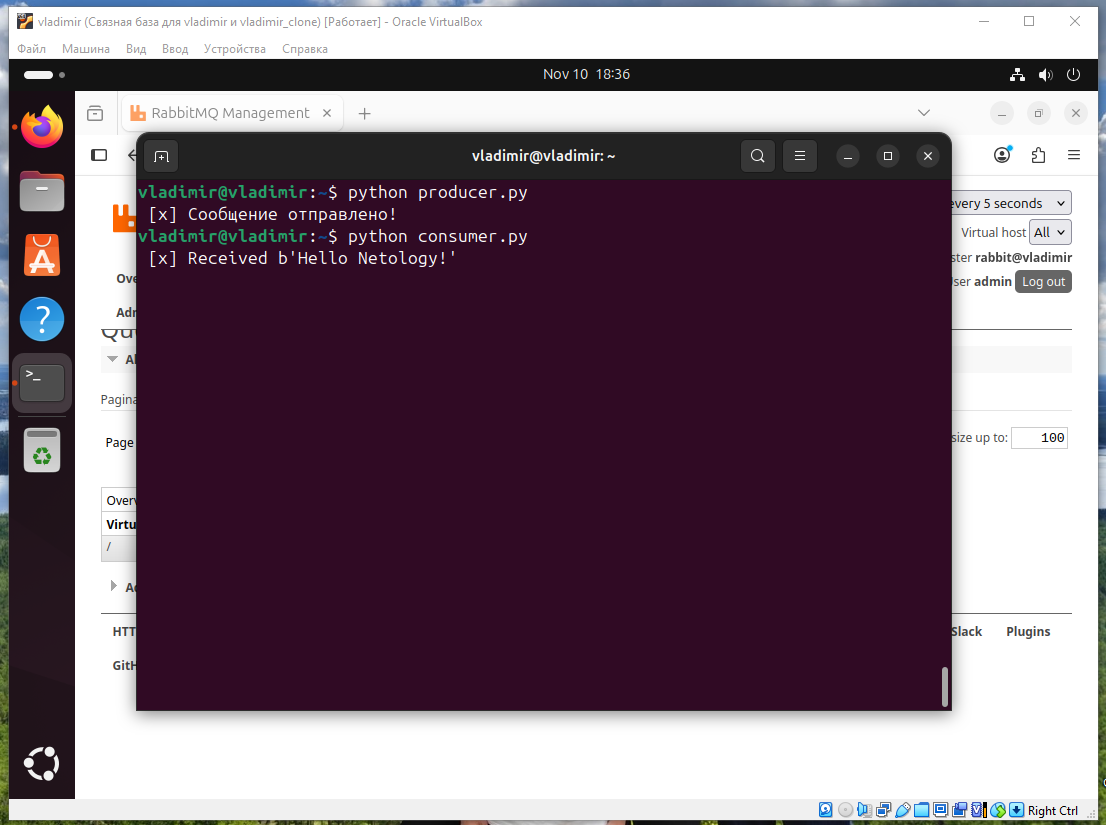
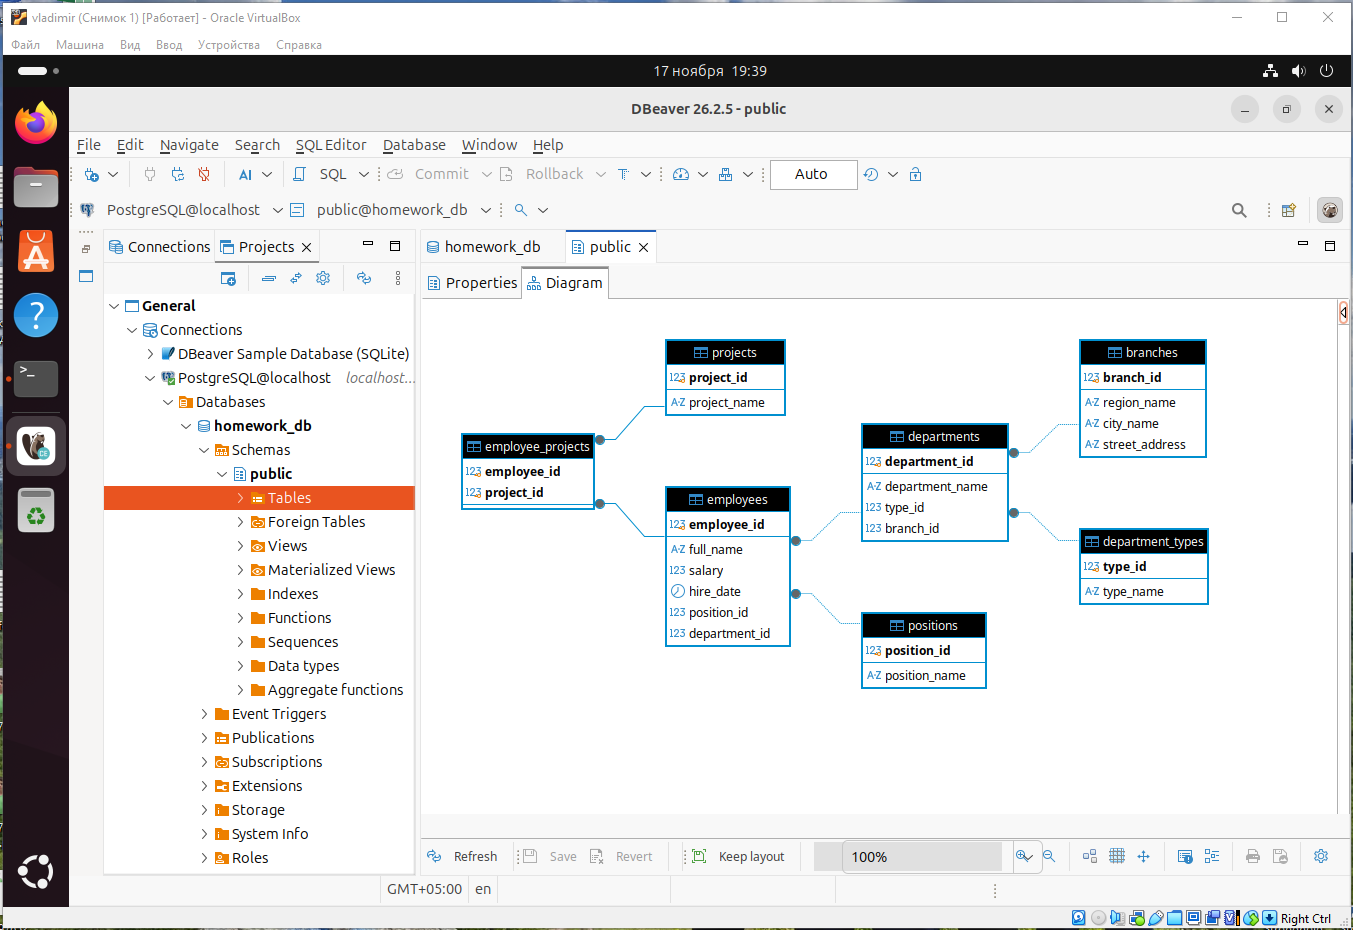
1

diff --git a/README.md b/README.md
@@ -1,4 +1,4 @@
-# Домашнее задание к занятию "`Название занятия`" - `Фамилия и имя студента`
+# Домашнее задание к занятию "`Базы данных`" - `Tsitovich Vladimir`
 
 
 ### Инструкция по выполнению домашнего задания
@@ -24,94 +24,17 @@
 
 ### Задание 1
 
-`Приведите ответ в свободной форме........`
-
-1. `Заполните здесь этапы выполнения, если требуется ....`
-2. `Заполните здесь этапы выполнения, если требуется ....`
-3. `Заполните здесь этапы выполнения, если требуется ....`
-4. `Заполните здесь этапы выполнения, если требуется ....`
-5. `Заполните здесь этапы выполнения, если требуется ....`
-6. 
-
-```
-Поле для вставки кода...
-....
-....
-....
-....
-```
-
-`При необходимости прикрепитe сюда скриншоты
-![Название скриншота 1](ссылка на скриншот 1)`
+![Название скриншота 1](ссылка на скриншот 1)
 
 
 ---
 
 ### Задание 2
 
-`Приведите ответ в свободной форме........`
+![Название скриншота 2](ссылка на скриншот 2)
 
-1. `Заполните здесь этапы выполнения, если требуется ....`
-2. `Заполните здесь этапы выполнения, если требуется ....`
-3. `Заполните здесь этапы выполнения, если требуется ....`
-4. `Заполните здесь этапы выполнения, если требуется ....`
-5. `Заполните здесь этапы выполнения, если требуется ....`
-6. 
-
-```
-Поле для вставки кода...
-....
-....
-....
-....
-```
-
-`При необходимости прикрепитe сюда скриншоты
-![Название скриншота 2](ссылка на скриншот 2)`
+![Название скриншота 1](ссылка на скриншот 1)
 
 
 ---
 
-### Задание 3
-
-`Приведите ответ в свободной форме........`
-
-1. `Заполните здесь этапы выполнения, если требуется ....`
-2. `Заполните здесь этапы выполнения, если требуется ....`
-3. `Заполните здесь этапы выполнения, если требуется ....`
-4. `Заполните здесь этапы выполнения, если требуется ....`
-5. `Заполните здесь этапы выполнения, если требуется ....`
-6. 
-
-```
-Поле для вставки кода...
-....
-....
-....
-....
-```
-
-`При необходимости прикрепитe сюда скриншоты
-![Название скриншота](ссылка на скриншот)`
-
-### Задание 4
-
-`Приведите ответ в свободной форме........`
-
-1. `Заполните здесь этапы выполнения, если требуется ....`
-2. `Заполните здесь этапы выполнения, если требуется ....`
-3. `Заполните здесь этапы выполнения, если требуется ....`
-4. `Заполните здесь этапы выполнения, если требуется ....`
-5. `Заполните здесь этапы выполнения, если требуется ....`
-6. 
-
-```
-Поле для вставки кода...
-....
-....
-....
-....
-```
-
-`При необходимости прикрепитe сюда скриншоты
-![Название скриншота](ссылка на скриншот)`
